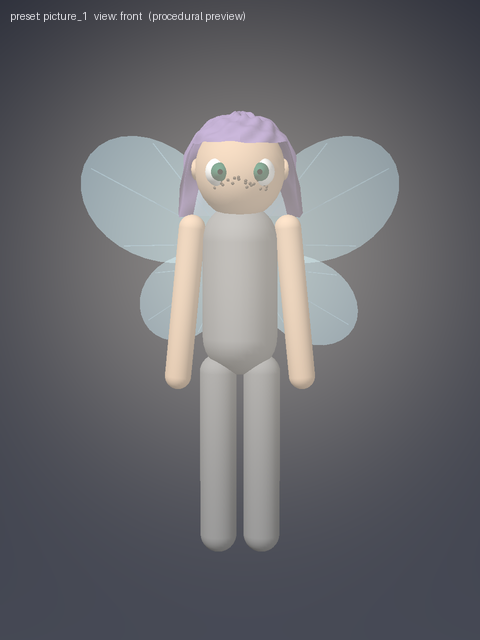
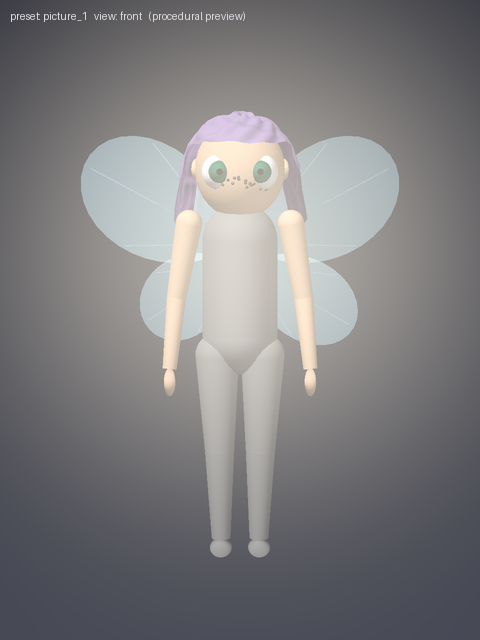
FAIRY: shape pass (tapered limbs, hands/feet, larger head+eyes, longer hair with strands, visible glow); re-rendered previews
Claude-Session: https://claude.ai/code/session_01WZwX7m9TmcGHVkyPFDTq9F

diff --git a/code/somatic_bevy/src/fairy_body.rs b/code/somatic_bevy/src/fairy_body.rs
@@ -176,7 +176,7 @@ impl Default for HerLook {
         HerLook {
             // LONG hair worn down: the owner says most of her ~25,000 images show it (10-29).
             hair: HairParams { color: hex(0xB57EDC), length: 1.0, volume: 0.5, tousle: 0.0 },
-            eyes: EyeParams { iris_color: hex(0x3E9B5A), size: 0.24, spacing: 0.78 },
+            eyes: EyeParams { iris_color: hex(0x3E9B5A), size: 0.30, spacing: 0.80 },
             freckles: FreckleParams {
                 density: 0.5,
                 color: darker(skin, 0.62),
@@ -203,7 +203,7 @@ impl Default for HerLook {
             body: NeutralBody {
                 height: 1.0,
                 // natural proportions (pictures 2 and 3); picture 1's stylized 0.22 is a preset
-                head_ratio: 0.15,
+                head_ratio: 0.17,
                 skin_color: skin,
                 clothing_color: hex(0x9C9C9C),
                 ears: EarShape::Rounded,
@@ -224,7 +224,7 @@ impl HerLook {
         let mut l = HerLook::default();
         l.hair = HairParams { color: hex(0xA793BE), length: 0.15, volume: 0.8, tousle: 0.6 };
         l.eyes.iris_color = hex(0x42876F);
-        l.eyes.size = 0.30;
+        l.eyes.size = 0.36;
         l.body.head_ratio = 0.22;
         l.wings.shape = WingShape::Insect;
         l.wings.tints = vec![hex(0xCBEBEE), hex(0xB0CDDA)];
@@ -329,6 +329,8 @@ pub enum PartKind {
     Torso,
     Arm,
     Leg,
+    Hand,
+    Foot,
     Ear,
     Hair,
     EyeWhite,
@@ -444,13 +446,24 @@ fn part(
     commands.spawn((HerPart(kind), Mesh3d(mesh), MeshMaterial3d(mat), tf)).id()
 }
 
+/// One tapered limb segment from `a` (radius r0) to `b` (radius r1), with a round joint at `a`.
+fn limb(commands: &mut Commands, m: &mut Mats, a: Vec3, b: Vec3, r0: f32, r1: f32,
+        mat: &Handle<StandardMaterial>, kind: PartKind) -> [Entity; 2] {
+    let d = b - a;
+    let mesh = m.meshes.add(ConicalFrustum { radius_top: r1, radius_bottom: r0, height: d.length() });
+    let seg = part(commands, kind, mesh, mat.clone(),
+        Transform::from_translation(a + d * 0.5).with_rotation(Quat::from_rotation_arc(Vec3::Y, d.normalize())));
+    let joint = sphere(m, r0);
+    let j = part(commands, kind, joint, mat.clone(), Transform::from_translation(a));
+    [seg, j]
+}
+
 fn sphere(m: &mut Mats, r: f32) -> Handle<Mesh> {
     m.meshes.add(Sphere::new(r).mesh().uv(32, 18))
 }
 
 /// Body layout, in units of her height (pivot scale = height). y = 0 at her feet.
 pub mod layout {
-    pub const LEG_Y: f32 = 0.24;
     pub const TORSO_Y: f32 = 0.62;
     pub const SHOULDER_Y: f32 = 0.79;
     pub const WING_ROOT: [f32; 3] = [0.0, 0.70, -0.07];
@@ -466,10 +479,24 @@ fn build_parts(commands: &mut Commands, m: &mut Mats, look: &HerLook) -> Vec<Ent
     let neck_top = 1.0 - 2.0 * hr * 0.9;
 
     // --- neutral body form (OPEN) -------------------------------------------------
-    let leg = m.meshes.add(Capsule3d::new(0.042, 0.38));
+    // tapered limbs (frustum segments + round joints), simple hands and feet
     for s in [-1.0f32, 1.0] {
-        out.push(part(commands, PartKind::Leg, leg.clone(), cloth.clone(),
-            Transform::from_xyz(0.05 * s, layout::LEG_Y, 0.0)));
+        let hip = Vec3::new(0.052 * s, 0.47, 0.0);
+        let knee = Vec3::new(0.047 * s, 0.25, 0.005);
+        let ankle = Vec3::new(0.044 * s, 0.04, 0.0);
+        out.extend(limb(commands, m, hip, knee, 0.050, 0.034, &cloth, PartKind::Leg));
+        out.extend(limb(commands, m, knee, ankle, 0.034, 0.022, &cloth, PartKind::Leg));
+        let foot = sphere(m, 0.03);
+        out.push(part(commands, PartKind::Foot, foot, cloth.clone(),
+            Transform::from_translation(ankle + Vec3::new(0.0, -0.015, 0.025)).with_scale(Vec3::new(0.85, 0.55, 1.9))));
+        let sh = Vec3::new(0.115 * s, layout::SHOULDER_Y - 0.02, 0.0);
+        let elbow = Vec3::new(0.145 * s, layout::SHOULDER_Y - 0.19, -0.01);
+        let wrist = Vec3::new(0.16 * s, layout::SHOULDER_Y - 0.35, 0.02);
+        out.extend(limb(commands, m, sh, elbow, 0.030, 0.022, &skin, PartKind::Arm));
+        out.extend(limb(commands, m, elbow, wrist, 0.022, 0.016, &skin, PartKind::Arm));
+        let hand = sphere(m, 0.024);
+        out.push(part(commands, PartKind::Hand, hand, skin.clone(),
+            Transform::from_translation(wrist + Vec3::new(0.0, -0.03, 0.0)).with_scale(Vec3::new(0.55, 1.35, 0.9))));
     }
     let torso = m.meshes.add(Capsule3d::new(0.085, 0.22));
     out.push(part(commands, PartKind::Torso, torso, cloth.clone(),
@@ -479,11 +506,6 @@ fn build_parts(commands: &mut Commands, m: &mut Mats, look: &HerLook) -> Vec<Ent
     let neck = m.meshes.add(Cylinder::new(0.028, neck_len));
     out.push(part(commands, PartKind::Neck, neck, skin.clone(),
         Transform::from_xyz(0.0, neck_base + neck_len * 0.5, 0.0)));
-    let arm = m.meshes.add(Capsule3d::new(0.03, 0.34));
-    for s in [-1.0f32, 1.0] {
-        out.push(part(commands, PartKind::Arm, arm.clone(), skin.clone(),
-            Transform::from_xyz(0.125 * s, layout::SHOULDER_Y - 0.2, 0.0).with_rotation(Quat::from_rotation_z(0.10 * s))));
-    }
     let head = sphere(m, hr);
     out.push(part(commands, PartKind::Head, head, skin.clone(),
         Transform::from_translation(head_c).with_scale(Vec3::new(0.92, 1.0, 0.95))));
@@ -678,11 +700,11 @@ pub fn freckle_points(n: usize, spread: f32, seed: u32) -> Vec<Vec3> {
 /// Hair as one shell over the head: a cap to the forehead at the front, falling down at the
 /// sides and back by `length`. Local to the head centre.
 pub fn hair_mesh(h: &HairParams, hr: f32) -> Mesh {
-    let seg = 48usize;
-    let rows = 28usize;
+    let seg = 96usize;
+    let rows = 40usize;
     let off = hr * (1.04 + 0.10 * h.volume.clamp(0.0, 1.0));
     // how far below the head equator, in units of her height (1.0 = long, to mid-back)
-    let drop = hr * 0.3 + 0.36 * h.length.clamp(0.0, 1.0);
+    let drop = hr * 0.3 + 0.46 * h.length.clamp(0.0, 1.0);
     let mut pos = Vec::new();
     for j in 0..=rows {
         let v = j as f32 / rows as f32;
@@ -703,7 +725,9 @@ pub fn hair_mesh(h: &HairParams, hr: f32) -> Mesh {
             } else {
                 let th = cap;
                 let d = s - arc;
-                let r = off * tous * th.sin() + d * 0.25;
+                // falling part: flares out a little and has strand ridges (more with volume)
+                let strands = 1.0 + (0.03 + 0.05 * h.volume) * (13.0 * phi + 2.0 * d / hr).sin().abs();
+                let r = (off * tous * th.sin() + d * 0.22) * strands;
                 Vec3::new(r * phi.sin(), off * th.cos() - d, r * phi.cos() * if fr > 0.0 { 1.0 } else { 1.15 })
             };
             pos.push(p);

diff --git a/docs/nous/FAIRY/render_previews.py b/docs/nous/FAIRY/render_previews.py
@@ -113,7 +113,7 @@ def render(parts, yaw, label):
         sp = project(c[None], eye, r, u, f, w, h)[0]
         pr = rad * s / sp[2]
         d2 = ((xs - sp[0]) ** 2 + (ys - sp[1]) ** 2) / (pr * pr)
-        img += (0.25 * np.exp(-d2 * 1.6))[..., None] * em
+        img += (0.45 * np.exp(-d2 * 1.4))[..., None] * em
     out = Image.fromarray((to_srgb(img) * 255).astype(np.uint8)).resize((W, H), Image.LANCZOS)
     ImageDraw.Draw(out).text((10, 10), label, fill=(220, 220, 225))
     return out
